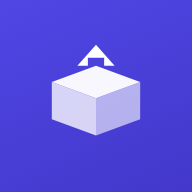
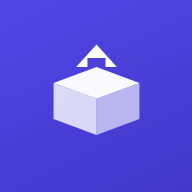
Rebrand app from Overstock Trade to Surplo
Renames the app across the codebase (UI, emails, legal pages, seed
accounts, PWA manifest, Capacitor iOS config/Xcode project, App Store
listing draft, README) and replaces the app icon with a refined
box + upward-arrow mark on an indigo gradient, regenerated at every
required size (favicon, PWA icons, apple-touch-icon, iOS AppIcon).

diff --git a/src/app/(public)/privacy/page.tsx b/src/app/(public)/privacy/page.tsx
@@ -1,6 +1,6 @@
 import Link from "next/link";
 
-export const metadata = { title: "Privacy Policy — Overstock Trade" };
+export const metadata = { title: "Privacy Policy — Surplo" };
 
 export default function PrivacyPolicyPage() {
   return (
@@ -9,8 +9,8 @@ export default function PrivacyPolicyPage() {
       <p className="mt-1 text-zinc-500">Last updated: [DATE]</p>
 
       <p className="mt-6">
-        [LEGAL ENTITY NAME] (&ldquo;Overstock Trade&rdquo;, &ldquo;we&rdquo;, &ldquo;us&rdquo;) operates the
-        Overstock Trade marketplace (the &ldquo;Service&rdquo;), including the mobile app and
+        [LEGAL ENTITY NAME] (&ldquo;Surplo&rdquo;, &ldquo;we&rdquo;, &ldquo;us&rdquo;) operates the
+        Surplo marketplace (the &ldquo;Service&rdquo;), including the mobile app and
         website. This policy explains what information we collect, how we use
         it, and the choices you have. By creating an account you agree to
         this policy.
@@ -18,7 +18,7 @@ export default function PrivacyPolicyPage() {
 
       <h2 className="mt-8 text-lg font-semibold text-zinc-900">1. Who this applies to</h2>
       <p className="mt-2">
-        Overstock Trade is a business-to-business (B2B) service. Accounts are
+        Surplo is a business-to-business (B2B) service. Accounts are
         created on behalf of a business, not an individual consumer. The
         information below applies to the business and to the individual
         person(s) who register and use the account on the business&apos;s

diff --git a/src/app/(public)/terms/page.tsx b/src/app/(public)/terms/page.tsx
@@ -1,4 +1,4 @@
-export const metadata = { title: "Terms of Service — Overstock Trade" };
+export const metadata = { title: "Terms of Service — Surplo" };
 
 export default function TermsPage() {
   return (
@@ -8,13 +8,13 @@ export default function TermsPage() {
 
       <p className="mt-6">
         These Terms of Service (&ldquo;Terms&rdquo;) govern your business&apos;s use of
-        Overstock Trade (the &ldquo;Service&rdquo;), operated by [LEGAL ENTITY NAME]
+        Surplo (the &ldquo;Service&rdquo;), operated by [LEGAL ENTITY NAME]
         (&ldquo;we&rdquo;, &ldquo;us&rdquo;). By creating an account you agree to these Terms.
       </p>
 
-      <h2 className="mt-8 text-lg font-semibold text-zinc-900">1. What Overstock Trade is</h2>
+      <h2 className="mt-8 text-lg font-semibold text-zinc-900">1. What Surplo is</h2>
       <p className="mt-2">
-        Overstock Trade is a business-to-business marketplace that lets
+        Surplo is a business-to-business marketplace that lets
         registered businesses list excess or overstock inventory for sale
         and lets other registered businesses browse, negotiate, and pay for
         that inventory. We are a marketplace and payment facilitator — we

diff --git a/prisma/seed.ts b/prisma/seed.ts
@@ -10,7 +10,7 @@ async function main() {
     create: { id: "singleton", commissionPercent: 8 },
   });
 
-  const adminEmail = "admin@overstocktrade.test";
+  const adminEmail = "admin@surplo.test";
   const adminPasswordHash = await bcrypt.hash("admin12345", 10);
   await prisma.user.upsert({
     where: { email: adminEmail },
@@ -25,7 +25,7 @@ async function main() {
   });
   console.log(`Admin user ready: ${adminEmail} / admin12345`);
 
-  const sellerEmail = "seller@overstocktrade.test";
+  const sellerEmail = "seller@surplo.test";
   let seller = await prisma.user.findUnique({ where: { email: sellerEmail } });
   if (!seller) {
     const business = await prisma.business.create({
@@ -70,7 +70,7 @@ async function main() {
     console.log(`Demo seller ready: ${sellerEmail} / seller12345`);
   }
 
-  const buyerEmail = "buyer@overstocktrade.test";
+  const buyerEmail = "buyer@surplo.test";
   const buyer = await prisma.user.findUnique({ where: { email: buyerEmail } });
   if (!buyer) {
     const business = await prisma.business.create({

diff --git a/src/lib/email.ts b/src/lib/email.ts
@@ -2,7 +2,7 @@ import { Resend } from "resend";
 
 const apiKey = process.env.RESEND_API_KEY;
 const resend = apiKey ? new Resend(apiKey) : null;
-const FROM = process.env.EMAIL_FROM ?? "Overstock Trade <onboarding@resend.dev>";
+const FROM = process.env.EMAIL_FROM ?? "Surplo <onboarding@resend.dev>";
 
 export async function sendEmail(to: string, subject: string, html: string) {
   if (!resend) {
@@ -20,7 +20,7 @@ export function emailShell(title: string, bodyHtml: string) {
     <div style="font-family: -apple-system, sans-serif; max-width: 480px; margin: 0 auto; padding: 24px;">
       <h1 style="font-size: 18px; color: #18181b;">${title}</h1>
       <div style="font-size: 14px; color: #3f3f46; line-height: 1.6;">${bodyHtml}</div>
-      <p style="margin-top: 32px; font-size: 12px; color: #a1a1aa;">Overstock Trade</p>
+      <p style="margin-top: 32px; font-size: 12px; color: #a1a1aa;">Surplo</p>
     </div>
   `;
 }

diff --git a/src/app/(public)/trust-safety/page.tsx b/src/app/(public)/trust-safety/page.tsx
@@ -1,7 +1,7 @@
 import Link from "next/link";
 import { ShieldCheck, ShieldAlert, Lock, Flag, RotateCcw } from "lucide-react";
 
-export const metadata = { title: "Trust, Safety & Refunds — Overstock Trade" };
+export const metadata = { title: "Trust, Safety & Refunds — Surplo" };
 
 export default function TrustSafetyPage() {
   return (
@@ -10,7 +10,7 @@ export default function TrustSafetyPage() {
       <p className="mt-1 text-zinc-500">Last updated: [DATE]</p>
 
       <p className="mt-6">
-        This page explains how Overstock Trade protects both sides of a trade, what
+        This page explains how Surplo protects both sides of a trade, what
         &ldquo;Verified&rdquo; means, and what happens if an order goes wrong &mdash; including how to
         report a scam and how refunds work. It supplements our{" "}
         <Link href="/terms" className="text-brand hover:underline">

diff --git a/src/components/SidebarNav.tsx b/src/components/SidebarNav.tsx
@@ -123,7 +123,7 @@ function SidebarContent({
           <Package className="h-4.5 w-4.5" />
         </span>
         <span className="text-base font-semibold tracking-tight text-white">
-          Overstock<span className="text-brand">Trade</span>
+          Surp<span className="text-brand">lo</span>
         </span>
       </div>
 
@@ -219,7 +219,7 @@ export default function SidebarNav({
           <Menu className="h-5 w-5" />
         </button>
         <span className="text-sm font-semibold text-zinc-900">
-          Overstock<span className="text-brand">Trade</span>
+          Surp<span className="text-brand">lo</span>
         </span>
         <Link href="/dashboard/notifications" className="relative rounded-lg p-2 text-zinc-600 hover:bg-zinc-100">
           <Bell className="h-5 w-5" />

diff --git a/src/app/api/account/route.ts b/src/app/api/account/route.ts
@@ -51,7 +51,7 @@ export async function DELETE() {
       await tx.user.update({
         where: { id: user.id },
         data: {
-          email: `deleted-${user.id}@deleted.overstocktrade.invalid`,
+          email: `deleted-${user.id}@deleted.surplo.invalid`,
           name: "Deleted user",
           passwordHash: unusableHash,
         },
@@ -62,7 +62,7 @@ export async function DELETE() {
       where: { id: businessId },
       data: {
         name: "Deleted business",
-        contactEmail: `deleted-${businessId}@deleted.overstocktrade.invalid`,
+        contactEmail: `deleted-${businessId}@deleted.surplo.invalid`,
         contactPhone: null,
         address: null,
         taxId: `deleted-${businessId}`,

diff --git a/src/app/api/signup/route.ts b/src/app/api/signup/route.ts
@@ -59,10 +59,10 @@ export async function POST(req: NextRequest) {
   const link = `${appUrl}/verify-email?token=${token}`;
   await sendEmail(
     data.email.toLowerCase(),
-    "Verify your email — Overstock Trade",
+    "Verify your email — Surplo",
     emailShell(
       "Verify your email",
-      `<p>Welcome to Overstock Trade! Confirm your email to finish setting up ${data.businessName}.</p>
+      `<p>Welcome to Surplo! Confirm your email to finish setting up ${data.businessName}.</p>
        <p><a href="${link}" style="color:#4f46e5;">Verify email</a></p>
        <p>This link expires in 24 hours.</p>`
     )

diff --git a/capacitor.config.ts b/capacitor.config.ts
@@ -1,14 +1,14 @@
 import type { CapacitorConfig } from "@capacitor/cli";
 
 const config: CapacitorConfig = {
-  appId: "com.overstocktrade.app",
-  appName: "Overstock Trade",
+  appId: "com.surplo.app",
+  appName: "Surplo",
   webDir: "public",
   // Loads the live deployed Next.js app inside the native shell instead of
   // bundling static files, since the app needs a real server (API routes,
   // auth, Postgres). Update this once you have your production Vercel URL.
   server: {
-    url: "https://overstock-trade.vercel.app",
+    url: "https://surplo.vercel.app",
     cleartext: false,
   },
   ios: {

diff --git a/src/app/(public)/layout.tsx b/src/app/(public)/layout.tsx
@@ -7,7 +7,7 @@ export default function PublicLayout({ children }: { children: React.ReactNode }
       <Nav />
       <main className="flex-1">{children}</main>
       <footer className="border-t border-zinc-200 bg-white py-6 text-center text-sm text-zinc-500">
-        <p>Overstock Trade &mdash; a B2B marketplace for excess inventory.</p>
+        <p>Surplo &mdash; a B2B marketplace for excess inventory.</p>
         <p className="mt-2 flex justify-center gap-4">
           <Link href="/privacy" className="hover:text-zinc-700 hover:underline">
             Privacy Policy

diff --git a/src/components/Nav.tsx b/src/components/Nav.tsx
@@ -21,7 +21,7 @@ export default async function Nav() {
             <span className="flex h-7 w-7 items-center justify-center rounded-lg bg-brand text-white">
               <Package className="h-4 w-4" />
             </span>
-            Overstock<span className="text-brand">Trade</span>
+            Surp<span className="text-brand">lo</span>
           </Link>
           <nav className="hidden items-center gap-6 text-sm font-medium text-zinc-600 sm:flex">
             <Link href="/listings" className="transition-colors hover:text-zinc-900">

diff --git a/src/app/api/auth/resend-verification/route.ts b/src/app/api/auth/resend-verification/route.ts
@@ -27,10 +27,10 @@ export async function POST() {
   const link = `${appUrl}/verify-email?token=${token}`;
   await sendEmail(
     user.email,
-    "Verify your email — Overstock Trade",
+    "Verify your email — Surplo",
     emailShell(
       "Verify your email",
-      `<p>Confirm your email address for Overstock Trade.</p>
+      `<p>Confirm your email address for Surplo.</p>
        <p><a href="${link}" style="color:#4f46e5;">Verify email</a></p>
        <p>This link expires in 24 hours.</p>`
     )
